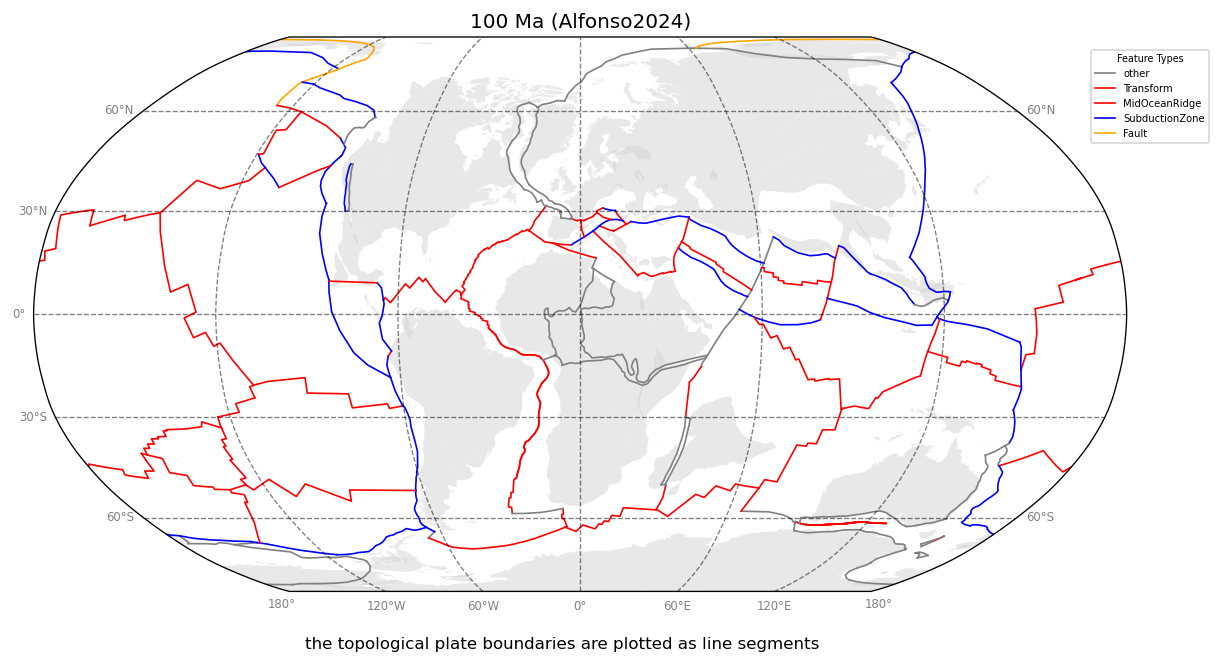
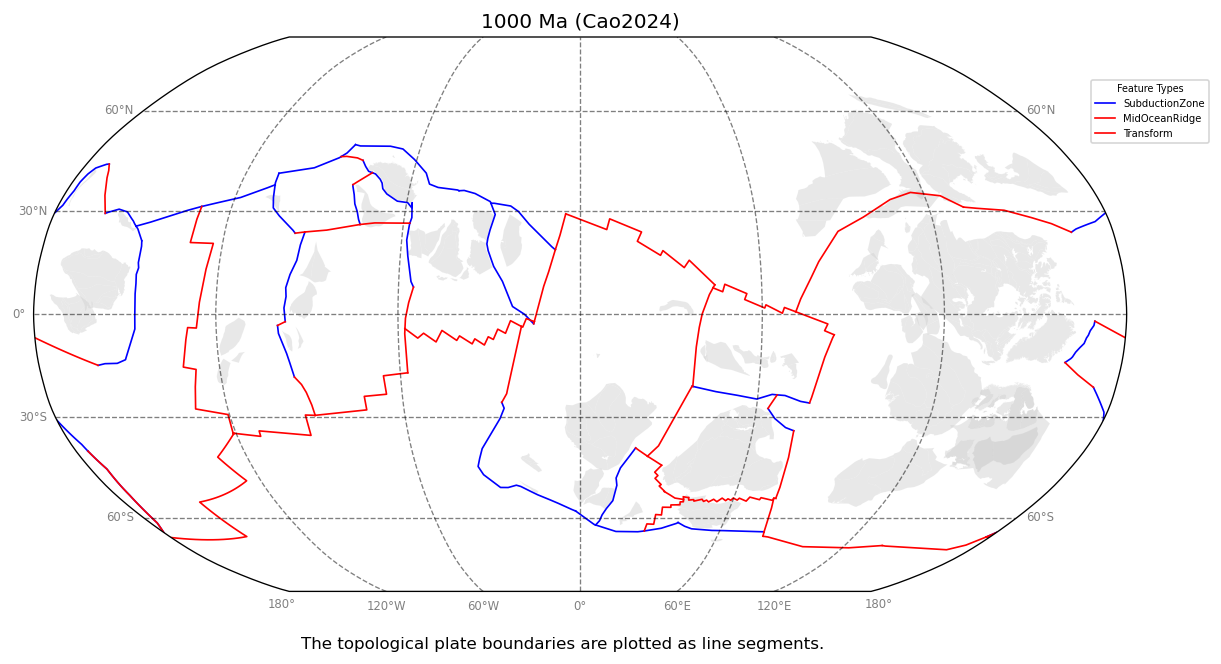
update topology examples

diff --git a/examples/plot_topological_plate_polygons.py b/examples/plot_topological_plate_polygons.py
@@ -3,7 +3,10 @@ import sys
 from pathlib import Path
 
 import cartopy.crs as ccrs
+import matplotlib.patches as mpatches
 import matplotlib.pyplot as plt
+import numpy as np
+import shapely
 from shapely.geometry import MultiLineString, MultiPolygon, Polygon, shape
 
 from gwspy import PlateModel
@@ -15,12 +18,12 @@ Path(OUTPUT_DIR).mkdir(parents=True, exist_ok=True)
 # export GWS_URL=http://localhost:18000/
 # micromamba run -n gplates-ws-example ./plot_topological_plate_polygons.py
 
-model_name = "Alfonso2024"
+model_name = "cao2024"
 
 
 def main(show=True):
     model = PlateModel(model_name)
-    time = 100
+    time = 140
     topology_100 = model.get_topology(time)
 
     # LOOK HERE!!!!
@@ -30,19 +33,24 @@ def main(show=True):
     _polygons = topology_100.get_plate_polygons()
     _lines = topology_100.get_plate_polygons(as_lines=True)
 
-    # print(_polygons)
-
+    pid_color_map = {}
+    pids = []
     polygons = []
+    fill_colors = []
     for feature in _polygons["features"]:
-        # if "Africa Basins temporary rigid block" in feature["properties"]["name"]:
-        #    print(feature["properties"]["name"])
-        #    continue
         # print(feature["properties"]["name"])
-        if feature["properties"]["type"] == "gpml:OceanicCrust":
+        if feature["properties"]["type"] != "gpml:TopologicalClosedPlateBoundary":
             continue
         s = shape(feature["geometry"])
         if isinstance(s, Polygon) or isinstance(s, MultiPolygon):
             polygons.append(s.buffer(0))
+            pids.append(feature["properties"]["pid"])
+            if feature["properties"]["pid"] in pid_color_map:
+                fill_colors.append(pid_color_map[feature["properties"]["pid"]])
+            else:
+                cc = list(np.random.choice(range(256), size=3) / 256)
+                pid_color_map[feature["properties"]["pid"]] = cc
+                fill_colors.append(cc)
 
     lines = []
     colors = []
@@ -50,20 +58,11 @@ def main(show=True):
     for feature in _lines["features"]:
         s = shape(feature["geometry"])
         f_type = feature["properties"]["type"]
-        if f_type == "gpml:OceanicCrust":
+        if f_type != "gpml:TopologicalClosedPlateBoundary":
             continue
 
         lines.append(s)
-
-        if f_type == "gpml:TopologicalNetwork":
-            colors.append("green")
-        elif f_type == "gpml:TopologicalClosedPlateBoundary":
-            colors.append("blue")
-        elif f_type == "gpml:TopologicalSlabBoundary":
-            colors.append("yellow")
-        else:
-            colors.append("red")
-
+        colors.append("black")
         feature_types.append(f_type)
 
     print(set(feature_types))
@@ -84,14 +83,36 @@ def main(show=True):
     gl.xlabel_style = {"size": 7, "color": "gray"}
     gl.ylabel_style = {"size": 7, "color": "gray"}
 
+    pids_to_show = [
+        919,
+        901,
+        902,
+        101,
+        301,
+        201,
+        802,
+        701,
+        714,
+        715,
+        534,
+        780,
+        380,
+        609,
+        801,
+        926,
+    ]
     # fill the polygons with grey
-    ax.add_geometries(
-        polygons,
-        crs=ccrs.PlateCarree(),
-        facecolor="grey",
-        edgecolor="none",
-        alpha=0.5,
-    )
+    for p, c, pid in zip(polygons, fill_colors, pids):
+        ax.add_geometries(
+            [p],
+            crs=ccrs.PlateCarree(),
+            facecolor=c,
+            edgecolor="none",
+            alpha=0.5,
+        )
+        center = p.representative_point()
+        if pid in pids_to_show:
+            ax.text(center.x, center.y, pid, transform=ccrs.PlateCarree())
 
     # plot the lines
     for line, c, t in zip(lines, colors, feature_types):
@@ -106,24 +127,27 @@ def main(show=True):
             )
 
     # plot the legend
-    handles, labels = ax.get_legend_handles_labels()
-    unique = [
-        (h, l) for i, (h, l) in enumerate(zip(handles, labels)) if l not in labels[:i]
-    ]
+    handles = []
+    pid_keys = list(pid_color_map.keys())
+    pid_keys.sort()
+    for pc in pid_keys:
+        p = mpatches.Patch(color=pid_color_map[pc], label=pc)
+        handles.append(p)
     legend = plt.legend(
-        *zip(*unique),
-        title="Feature Types",
+        handles=handles,
+        title="Plate IDs",
         prop={"size": 6},
         loc="lower right",
-        bbox_to_anchor=(1.1, 0.9),
+        bbox_to_anchor=(1.1, 0.3),
     )
+
     plt.setp(legend.get_title(), fontsize="xx-small")
     plt.title(f"{time} Ma ({model_name})")
 
     fig.text(
         0.5,
         0.03,
-        "topological closed plate boundary and network",
+        "The topological plate polygons are filled with random colours.",
         ha="center",
     )
 

diff --git a/examples/plot_topological_features.py b/examples/plot_topological_features.py
@@ -37,9 +37,12 @@ def plot_lines(ax, lines, color="blue", label=""):
             )
 
 
+model_name = "Cao2024"
+
+
 def main(show=True):
-    model = PlateModel("Muller2019")
-    time = 10
+    model = PlateModel(model_name)
+    time = 1000
     topology_10 = model.get_topology(time)
 
     mid_ocean_ridge = topology_10.get_features("MidOceanRidge", return_format="shapely")
@@ -64,7 +67,7 @@ def main(show=True):
     gl.ylabel_style = {"size": 7, "color": "gray"}
 
     plot_lines(ax, mid_ocean_ridge, color="red", label="mid-ocean ridge")
-    plot_lines(ax, transform, color="black", label="transform")
+    plot_lines(ax, transform, color="red", label="transform")
     plot_lines(ax, fault, color="orange", label="fault")
     plot_lines(ax, subduction, label="subduction zone")
 
@@ -82,12 +85,12 @@ def main(show=True):
     )
     plt.setp(legend.get_title(), fontsize="xx-small")
 
-    plt.title(f"{time} Ma (Muller2019)")
+    plt.title(f"{time} Ma ({model_name})")
 
     fig.text(
         0.5,
         0.03,
-        "topological features with different colours",
+        "selected topological features",
         ha="center",
     )
     if show:

diff --git a/examples/plot_topological_plate_boundaries.py b/examples/plot_topological_plate_boundaries.py
@@ -16,12 +16,12 @@ Path(OUTPUT_DIR).mkdir(parents=True, exist_ok=True)
 # export GWS_URL=http://localhost:18000/
 # micromamba run -n gplates-ws-example ./plot_topological_plate_boundaries.py
 
-model_name = "Alfonso2024"
+model_name = "Cao2024"
 
 
 def main(show=True):
     model = PlateModel(model_name)
-    time = 100
+    time = 1000
     topology_100 = model.get_topology(time)
 
     _lines = topology_100.get_plate_boundaries()
@@ -32,7 +32,6 @@ def main(show=True):
         "MidOceanRidge": "red",
         "Transform": "red",
         "SubductionZone": "blue",
-        "Fault": "orange",
     }
     for feature in _lines["features"]:
         s = shape(feature["geometry"])
@@ -112,7 +111,7 @@ def main(show=True):
     fig.text(
         0.5,
         0.03,
-        "the topological plate boundaries are plotted as line segments",
+        "The topological plate boundaries are plotted as line segments.",
         ha="center",
     )
 
